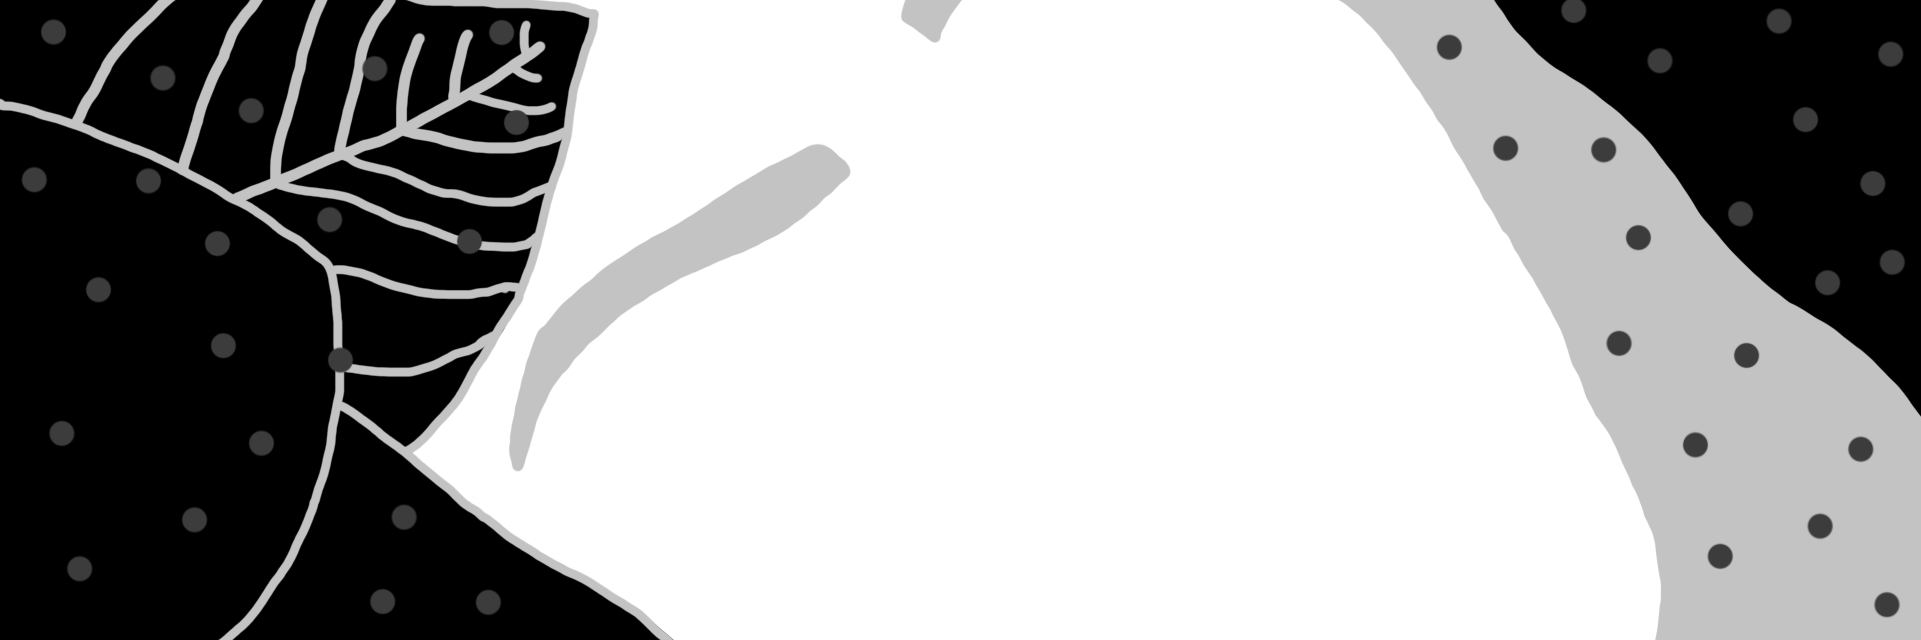
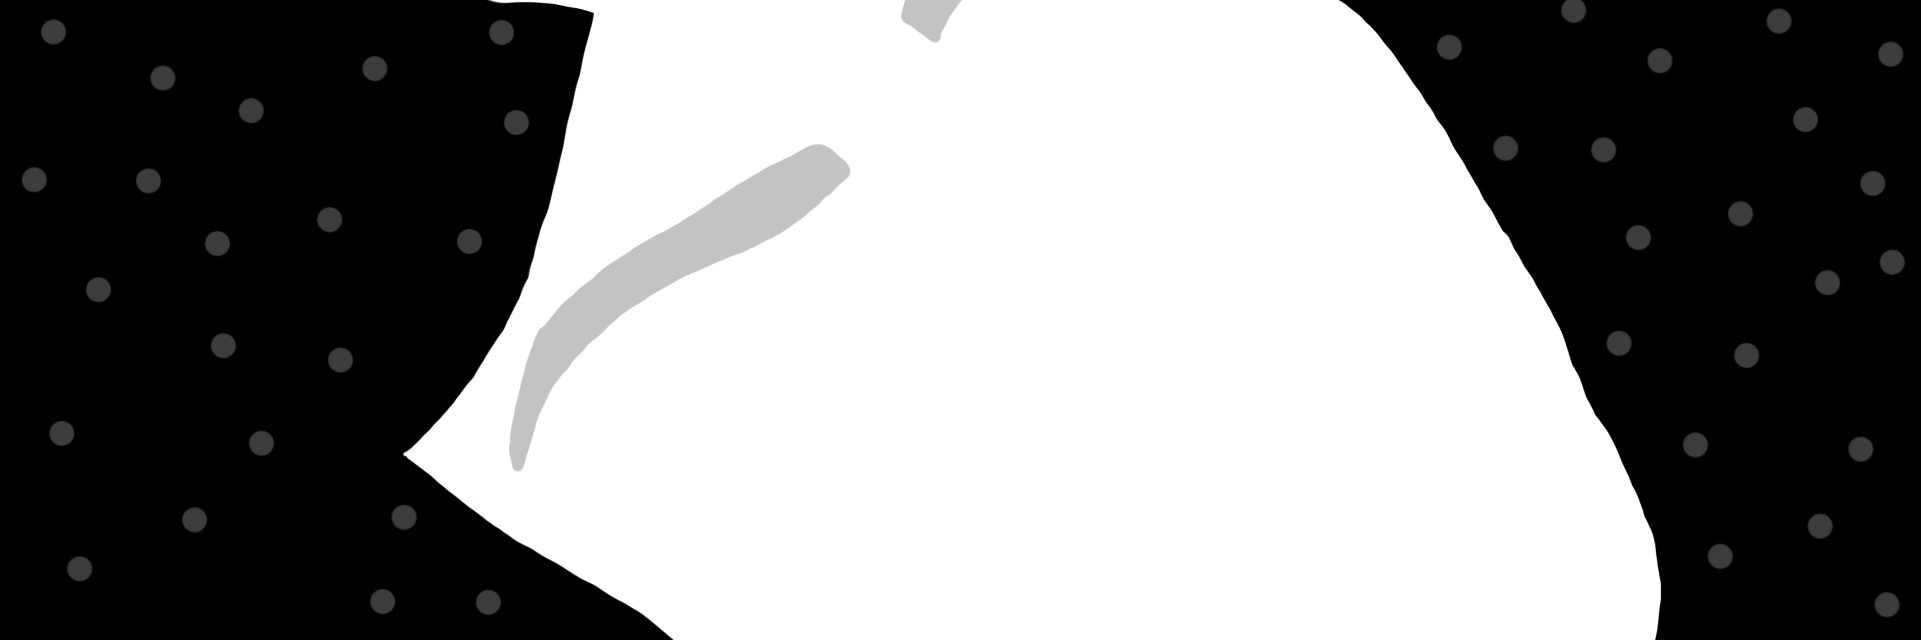
DESIGN FEEDBACK

diff --git a/sketch.js b/sketch.js
@@ -126,7 +126,7 @@ function draw() {
     console.log("Done!")
     noLoop();
     // UNCOMMENT TO SAVE
-    saveArtworkImage(outputFile);
+    //saveArtworkImage(outputFile);
   }
 }
 

diff --git a/README.md b/README.md
@@ -1,5 +1,7 @@
 ## Creative Coding 2: Custom Pixel
 
-PLAYING WITH COLOUR
+DESIGN FEEDBACK
 
-I thought it would be cool to desaturate my background so that it highlights the girl more since she is the main focus and with some of the images the background sometimes got it the way, now that I have adjusted the background it has good contrast and makes the girl more clear. I feel like I would like it to still have some colour but wasn't sure how to bring back some colour so that is something.
+I have been playing around with the colours of the background, I have desaturated it so that the girl is clear and highlighted. I like the look but I still want to experiment with adding some colour back into it so its not so bold to see what that may look like I'm just not sure how to do that.
+
+My mask is detailed so that I can separate the girl, hair, background and add in faces. I have layered my code so that it looks cleaner and more structured. The faces go from sad to meh to happy to show that transition of my theme. I have used a mixture of sharp shapes and soft shapes for the contrast between my theme, the background is made up of triangles to represent a shard of a mirror, and the soft shapes like curves and ellipses have been used for the girl to show that shes delicate/vulnerable. 
